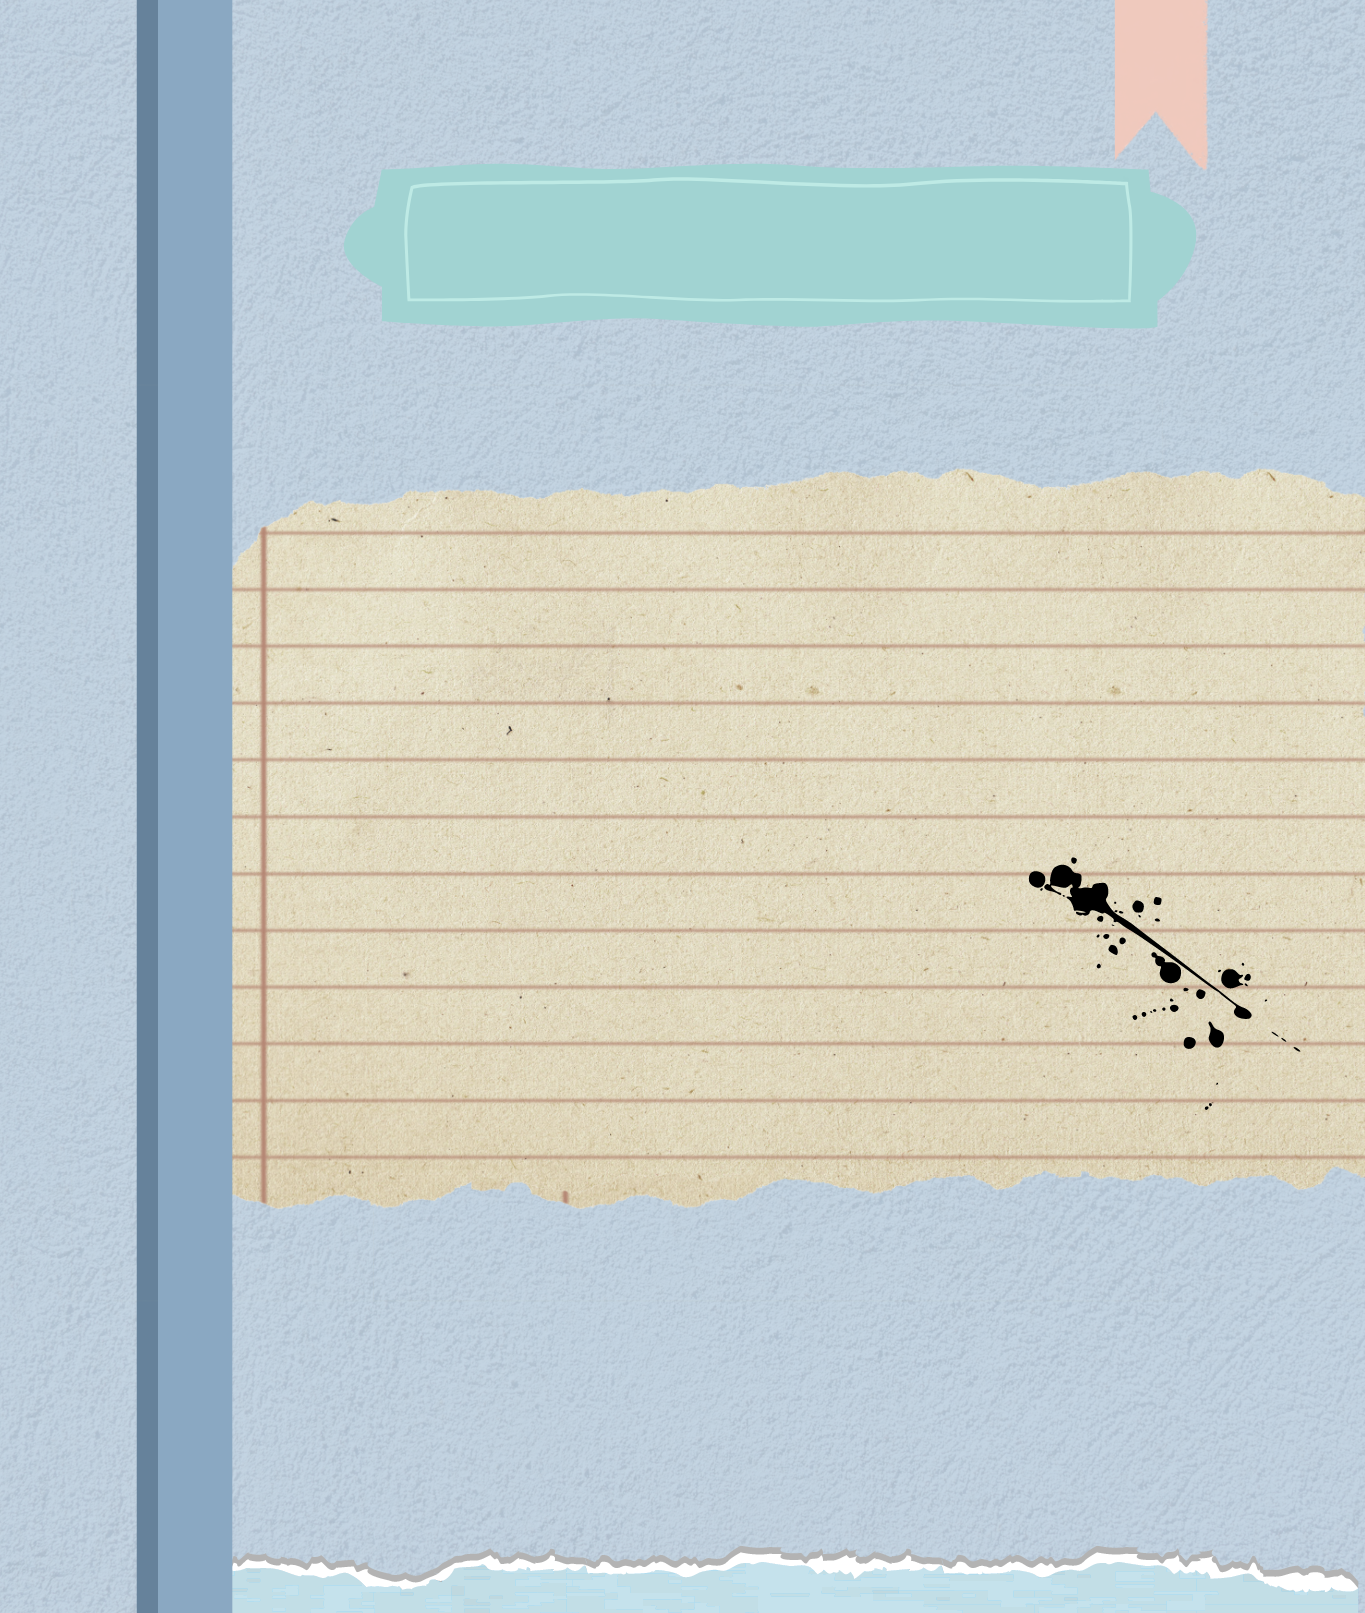
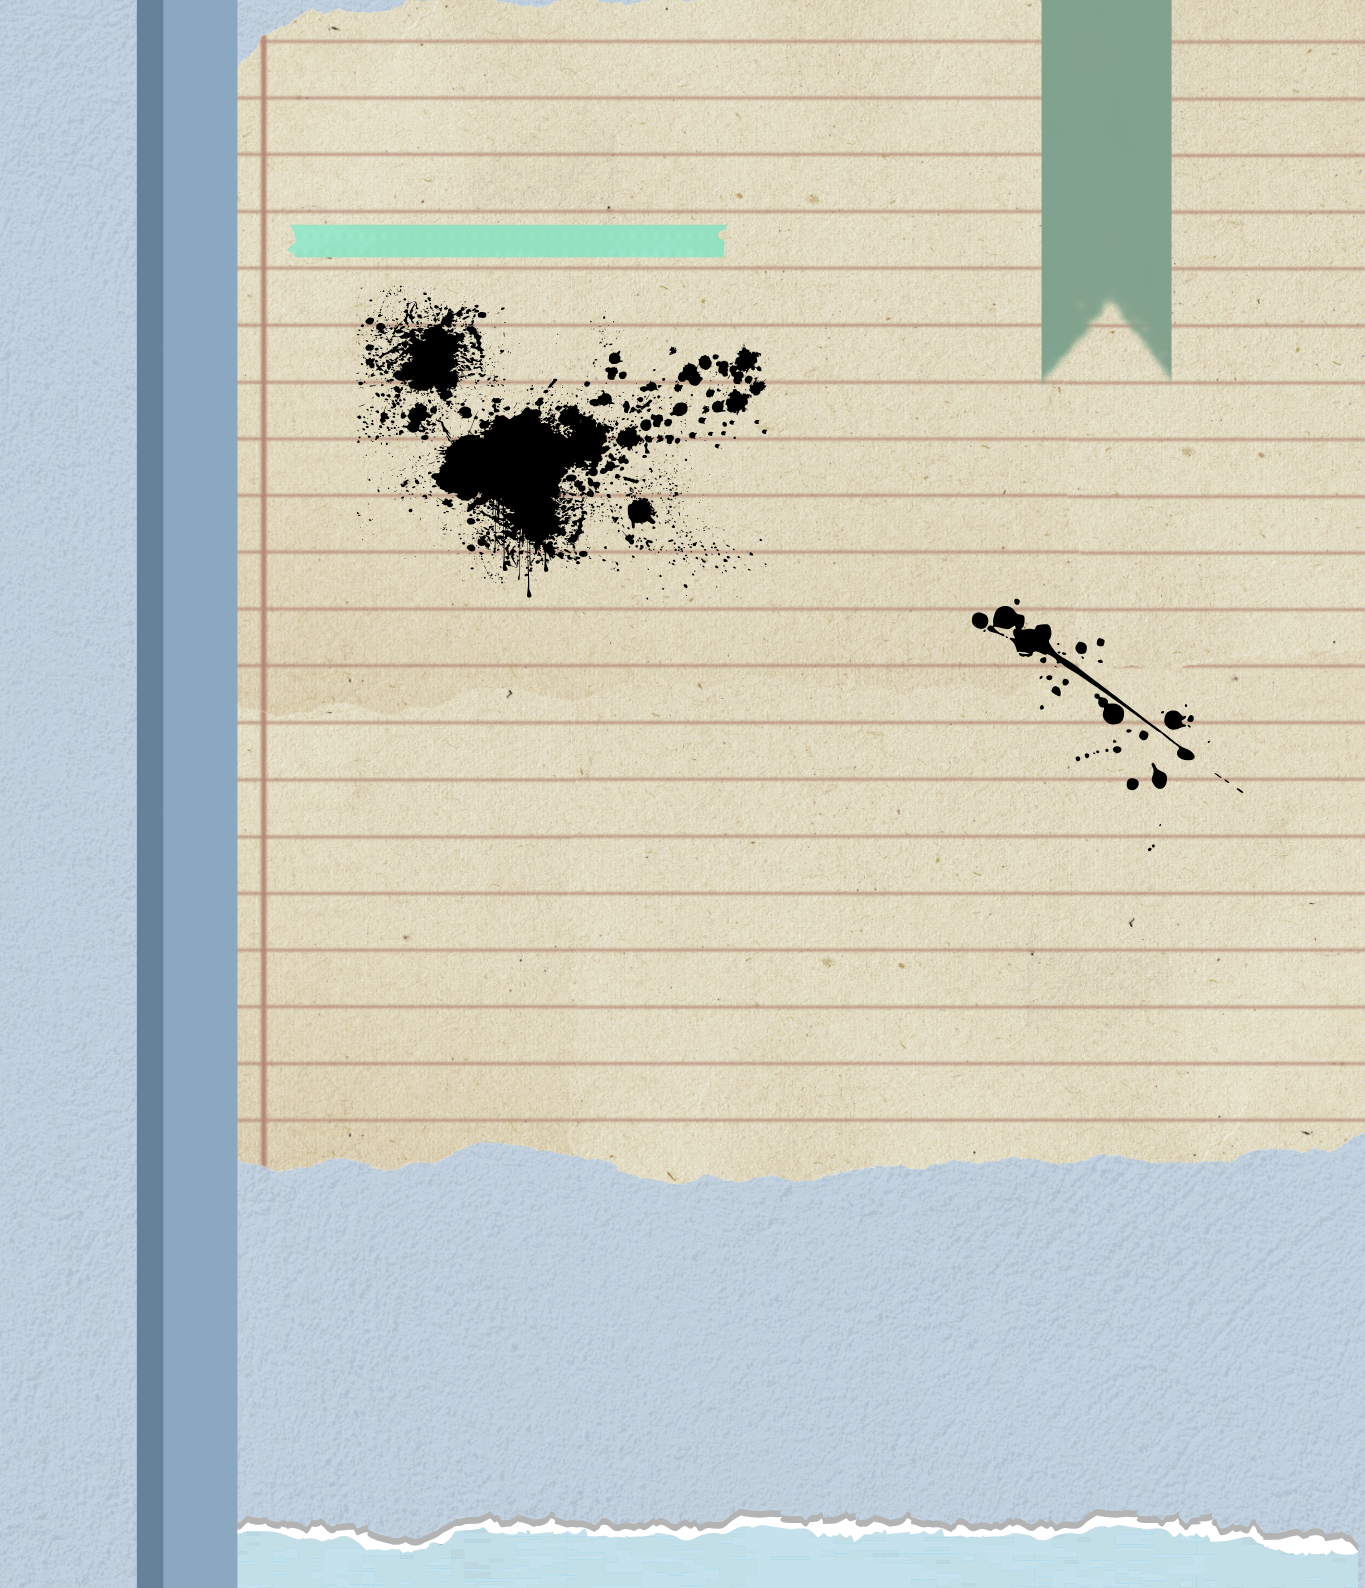
이미지 이름 변경 후 코드 수정

diff --git a/frontend/src/Component/Note/NotePage.js b/frontend/src/Component/Note/NotePage.js
@@ -4,8 +4,8 @@ import styled, { keyframes, css } from "styled-components";
 import OrganizationInfoModal from "./organizationInfo/organizationInfo";
 import OrganizationContainer from "../Organization/Organization_Web";
 import ImagetoBackend from "../Utils/imageToBackend";
-import noneImage from "../../image/NoneImage2.png";
-import defaultImage from "../../image/defaultNote2.png";
+import noneImage from "../../image/NoneImage.png";
+import defaultImage from "../../image/defaultNote.png";
 import backgroundImage from "../../image/organizationBackgroundImage.png";
 import AddNoteIcon from "../../image/addNote.svg";
 import toastr from "toastr";

diff --git a/frontend/src/Component/Page/Page.js b/frontend/src/Component/Page/Page.js
@@ -38,7 +38,7 @@ import { isWeb, checkLocalStorage } from "./utils/initMobileWebView"
 import { FontAwesomeIcon } from "@fortawesome/react-fontawesome";
 import { faLeftLong, faRightLong, faSquarePlus, faTrashCan, faList, faGear } from "@fortawesome/free-solid-svg-icons";
 import { cursorColors } from "../Utils/cursorColor"
-import defaultNoteImage from "../../image/defaultNote2.png";
+import defaultNoteImage from "../../image/defaultNote.png";
 import LoadingScreen from "../Utils/LoadingScreen";
 
 function Page() {

diff --git a/frontend/src/Component/Page/utils/editor/noteSettingModal.js b/frontend/src/Component/Page/utils/editor/noteSettingModal.js
@@ -6,7 +6,7 @@ import { FontAwesomeIcon } from "@fortawesome/react-fontawesome";
 import { faTrashCan } from "@fortawesome/free-solid-svg-icons";
 import toastr from "toastr";
 import "toastr/build/toastr.css";
-import defaultNoteImage from "../../../../image/defaultNote2.png";
+import defaultNoteImage from "../../../../image/defaultNote.png";
 
 const NoteSettingModal = ({
     modalOpen,

diff --git a/frontend/src/Component/Page/ProseMirror_css/ProseMirror.css b/frontend/src/Component/Page/ProseMirror_css/ProseMirror.css
@@ -344,7 +344,7 @@ img.ProseMirror-separator {
 }
 #editor,
 .editor {
-  background-image: url('/src/image/note_paper\(8\).svg');
+  background-image: url('/src/image/note_paper.svg');
   background-size: 83% 260%;
   background-repeat: no-repeat; 
   background-position: 16vw -7vw; 
